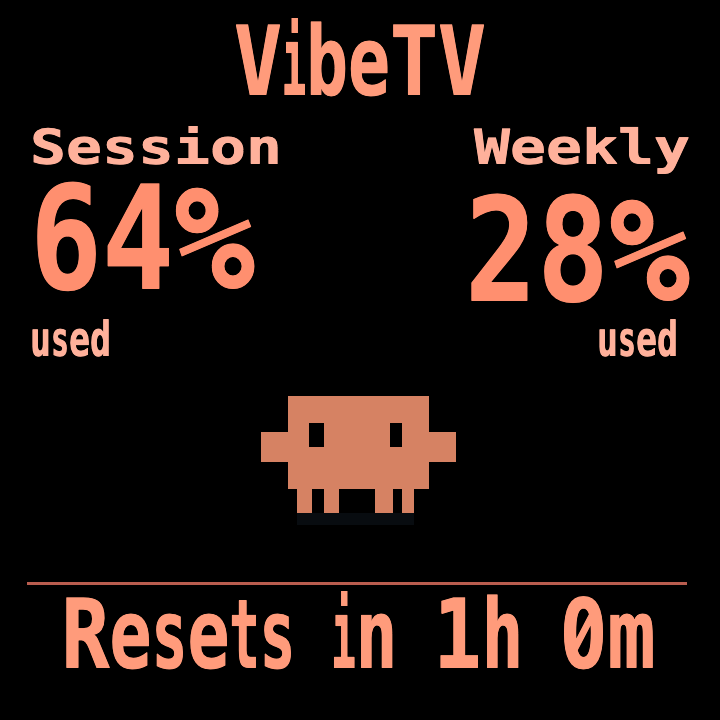
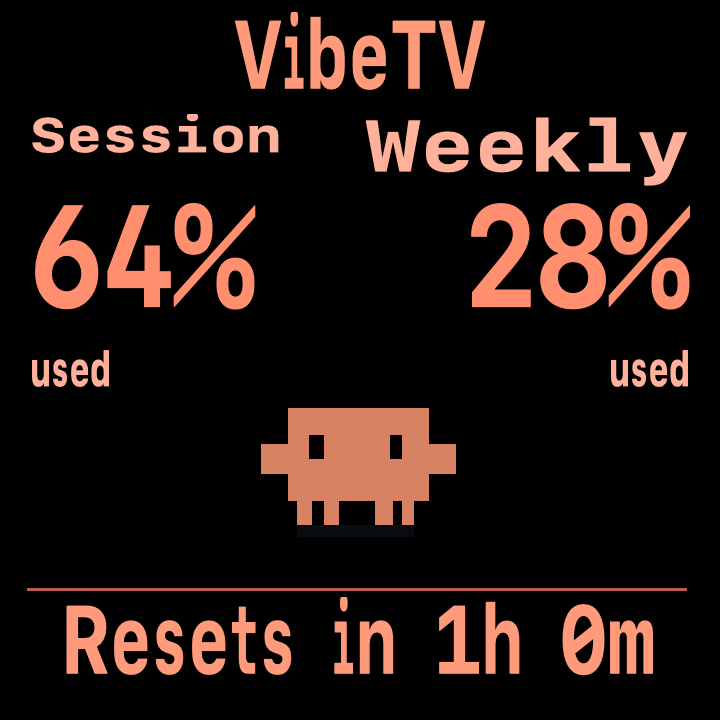
Improve Mini Classic and Claude Creature legibility (#258)
Both themes were hard to read at desk distance, and a 100% usage value lost
its percent sign: the firmware clips each text primitive to its lane viewport,
and the slot-2 percentages were narrower than a rendered "100%" (mini-classic
90px lane vs 120px text, claude-creature 75px vs 99px). Slot 1 had no lane at
all, which the renderer treats as "up to the right display edge" for partial
render safety.

Give every percentage an explicit, symmetric lane wide enough for "100%" and
mark it fit: shrink, so no valid value can ever be clipped. Scale the reading
text up: mini-classic percentages move to font 2 size 3 (48px cap height,
was 40px) with matching size-3 window labels, and its reset line moves to
font 2. Claude Creature gets size-3 window labels and a font 2 size 2 reset
line (32px, was 16px), and its usage-mode lines are bounded so they cannot
collide with a full-width percentage. The creature sprite keeps its size and
center position.

Ship as new immutable revisions (rev 7, mini-classic v1.2.0, claude-creature
v1.3.0) and recapture the two README previews at the documented settings.

Adds apps/control-center/src/theme-packs/theme-legibility.test.ts, which
renders both packs through the production preview path and asserts 0/7/42/99/
100% fit their lanes, long provider labels and week-long resets stay inside
their lanes, nothing leaves the 240px panel, and the reset/percent text keeps
its minimum glyph height. It fails on the pre-fix specs.

diff --git a/apps/control-center/src/theme-packs/theme-legibility.test.ts b/apps/control-center/src/theme-packs/theme-legibility.test.ts
@@ -1,0 +1,171 @@
+import { describe, expect, it } from "vitest";
+import { readFileSync } from "node:fs";
+import path from "node:path";
+import {
+  buildFrameData,
+  primitiveUsageSlotVisible,
+  renderTextPrimitive,
+  themeFirmwareTextMetrics,
+  themeTextFittedSize,
+  type ThemePrimitive,
+  type ThemeRenderPack,
+} from "@/components/live-vibetv-preview";
+
+// Issue #258: Mini Classic and Claude Creature must stay readable at normal
+// viewing distance, and every percentage - including 100% - must render whole.
+// The firmware clips a text primitive to its lane viewport, so a value that is
+// wider than the lane loses its trailing "%" instead of wrapping or scaling.
+const root = path.resolve(process.cwd(), "../..");
+const clock = new Date("2026-09-21T12:00:00Z");
+const themes = ["mini-classic", "claude-creature"] as const;
+
+function pack(themeId: string): ThemeRenderPack {
+  return JSON.parse(
+    readFileSync(path.join(root, "dist/theme-packs/render", themeId + ".json"), "utf8"),
+  ) as ThemeRenderPack;
+}
+
+function textPrimitives(themeId: string): ThemePrimitive[] {
+  const spec = pack(themeId).spec;
+  const primitives = (spec?.p ?? spec?.primitives ?? []) as ThemePrimitive[];
+  return primitives.filter((p) => (p.t ?? p.type) === "tx" || (p.t ?? p.type) === "text");
+}
+
+function frame(
+  percent: number,
+  {
+    label = "Codex",
+    usageMode = "used",
+    slotLabel = "Session",
+    resetSecs = 3600,
+  }: { label?: string; usageMode?: string; slotLabel?: string; resetSecs?: number } = {},
+) {
+  return buildFrameData(
+    clock.toISOString(),
+    {
+      provider: "codex",
+      label,
+      activity: "idle",
+      usageMode,
+      usageSlots: [
+        { id: "slot1", label: slotLabel, percent, resetSecs },
+        { id: "slot2", label: slotLabel, percent, resetSecs },
+      ],
+    },
+    clock,
+  );
+}
+
+function laneWidth(p: ThemePrimitive): number {
+  return (p.w ?? p.width ?? 0) as number;
+}
+
+function renderedWidth(p: ThemePrimitive, value: string): number {
+  const font = (p.f ?? p.font ?? 1) as number;
+  const size = themeTextFittedSize(
+    value,
+    font,
+    (p.s ?? p.fontSize ?? 1) as number,
+    laneWidth(p),
+    (p.ft ?? p.fit) === "shrink",
+  );
+  return themeFirmwareTextMetrics(value, font, size)?.width ?? 0;
+}
+
+describe.each(themes)("%s legibility and fit (issue #258)", (themeId) => {
+  it("renders every percentage from 0% to 100% completely", () => {
+    for (const percent of [0, 7, 42, 99, 100]) {
+      const data = frame(percent);
+      for (const p of textPrimitives(themeId)) {
+        const value = renderTextPrimitive(p, data);
+        if (!value.endsWith("%")) continue;
+        expect(value).toBe(percent + "%");
+        // A lane is a hard clip: the whole value has to fit inside it.
+        expect(laneWidth(p), value + " needs an explicit lane").toBeGreaterThan(0);
+        expect(
+          renderedWidth(p, value),
+          value + " must fit its " + laneWidth(p) + "px lane",
+        ).toBeLessThanOrEqual(laneWidth(p));
+      }
+    }
+  });
+
+  it("keeps every live value inside its lane for realistic frames", () => {
+    const frames = [
+      frame(64),
+      frame(100, { usageMode: "remaining" }),
+      frame(100, {
+        label: "Open VibeTV Mac App",
+        usageMode: "remaining",
+        slotLabel: "Codex Spark Weekly",
+        resetSecs: 604800,
+      }),
+      frame(0, { label: "Update available", resetSecs: 0 }),
+    ];
+    for (const data of frames) {
+      for (const p of textPrimitives(themeId)) {
+        if (!primitiveUsageSlotVisible(p, data)) continue;
+        const value = renderTextPrimitive(p, data);
+        expect(
+          renderedWidth(p, value),
+          JSON.stringify(value) + " in lane " + laneWidth(p),
+        ).toBeLessThanOrEqual(laneWidth(p));
+      }
+    }
+  });
+
+  it("stays inside the 240 px panel at its unshrunk height", () => {
+    for (const p of textPrimitives(themeId)) {
+      const font = (p.f ?? p.font ?? 1) as number;
+      const height = (font === 2 ? 16 : 8) * ((p.s ?? p.fontSize ?? 1) as number);
+      expect(
+        ((p.y ?? 0) as number) + height,
+        JSON.stringify(p.v ?? p.b) + " bottom",
+      ).toBeLessThanOrEqual(240);
+    }
+  });
+
+  it("renders the reset line and percentages large enough to read", () => {
+    const data = frame(64);
+    const values = textPrimitives(themeId).map((p) => [p, renderTextPrimitive(p, data)] as const);
+    const reset = values.find(([, value]) => /^Resets? in /.test(value));
+    expect(reset, "a reset line must exist").toBeDefined();
+    // Font 2 at size 2 is a 32 px cap-height line; the old size-1 Claude
+    // Creature reset line was 16 px and unreadable at desk distance.
+    const [resetPrimitive, resetValue] = reset!;
+    const resetFont = (resetPrimitive.f ?? resetPrimitive.font ?? 1) as number;
+    const resetSize = themeTextFittedSize(
+      resetValue,
+      resetFont,
+      (resetPrimitive.s ?? resetPrimitive.fontSize ?? 1) as number,
+      laneWidth(resetPrimitive),
+      true,
+    );
+    expect((resetFont === 2 ? 16 : 8) * resetSize).toBeGreaterThanOrEqual(32);
+
+    for (const [p, value] of values) {
+      if (!value.endsWith("%")) continue;
+      const font = (p.f ?? p.font ?? 1) as number;
+      const size = themeTextFittedSize(
+        value,
+        font,
+        (p.s ?? p.fontSize ?? 1) as number,
+        laneWidth(p),
+        true,
+      );
+      expect((font === 2 ? 16 : 8) * size, value + " glyph height").toBeGreaterThanOrEqual(48);
+    }
+  });
+
+  it("ships the layout fix as a new immutable revision", () => {
+    const manifest = JSON.parse(
+      readFileSync(path.join(root, "theme-packs", themeId, "manifest.json"), "utf8"),
+    );
+    const raw = readFileSync(path.join(root, "theme-packs", themeId, "theme.json"), "utf8");
+    expect(JSON.parse(raw).rev).toBe(7);
+    expect(manifest.themeSpec.path).toContain("-7-");
+    expect(manifest.themeSpec.bytes).toBe(Buffer.byteLength(raw));
+    // The published render pack has to match the tracked source revision.
+    expect(pack(themeId).specPath).toBe(manifest.themeSpec.path);
+  });
+});

diff --git a/docs/assets/README.md b/docs/assets/README.md
@@ -1,7 +1,8 @@
 # README image sources
 
-Updated for issue #431 on 2026-09-08. All six live themes and three screensavers
-use the same normal Control Center preview, without product mockups.
+Updated for issue #431 on 2026-09-08; Mini Classic and Claude Creature were
+recaptured for issue #258 on 2026-09-21. All six live themes and three
+screensavers use the same normal Control Center preview, without product mockups.
 
 Captured from `ThemeSpecPreview` at commit `c9192e6`, using unmodified current
 render packs, `THEME_CATALOG_PREVIEW_FRAME`, and `animate={false}`. The 240 × 240
@@ -10,9 +11,9 @@ These are static example states, not live device readings.
 
 | Preview | Render pack | ThemeSpec path | Spec hash |
 | --- | --- | --- | --- |
-| [Claude Creature](vibetv-theme-claude-creature.png) | [render pack](../../dist/theme-packs/render/claude-creature.json) | `/themes/u/claude--6-546f9e.json` | `546f9e84` |
+| [Claude Creature](vibetv-theme-claude-creature.png) | [render pack](../../dist/theme-packs/render/claude-creature.json) | `/themes/u/claude--7-4963df.json` | `4963dfb7` |
 | [Clippy](vibetv-theme-clippy.png) | [render pack](../../dist/theme-packs/render/clippy.json) | `/themes/u/clippy-5-4f3746.json` | `4f37467f` |
-| [Mini Classic](vibetv-theme-mini-classic.png) | [render pack](../../dist/theme-packs/render/mini-classic.json) | `/themes/u/mini-cl-6-024b0e.json` | `024b0e34` |
+| [Mini Classic](vibetv-theme-mini-classic.png) | [render pack](../../dist/theme-packs/render/mini-classic.json) | `/themes/u/mini-cl-7-c7cbf4.json` | `c7cbf455` |
 | [Night Clock](vibetv-screensaver-night-clock.png) | [render pack](../../dist/theme-packs/render/night-clock.json) | `/themes/s/nc-3-e18e4217.json` | `7c0481b8` |
 | [Pixel Battery](vibetv-theme-pixel-battery.png) | [render pack](../../dist/theme-packs/render/pixel-battery.json) | `/themes/u/pba-16-f46829.json` | `6c0dcf25` |
 | [Reset Countdown](vibetv-screensaver-reset-countdown.png) | [render pack](../../dist/theme-packs/render/reset-countdown.json) | `/themes/s/rcf-6-03e818f0.json` | `6db1710c` |
